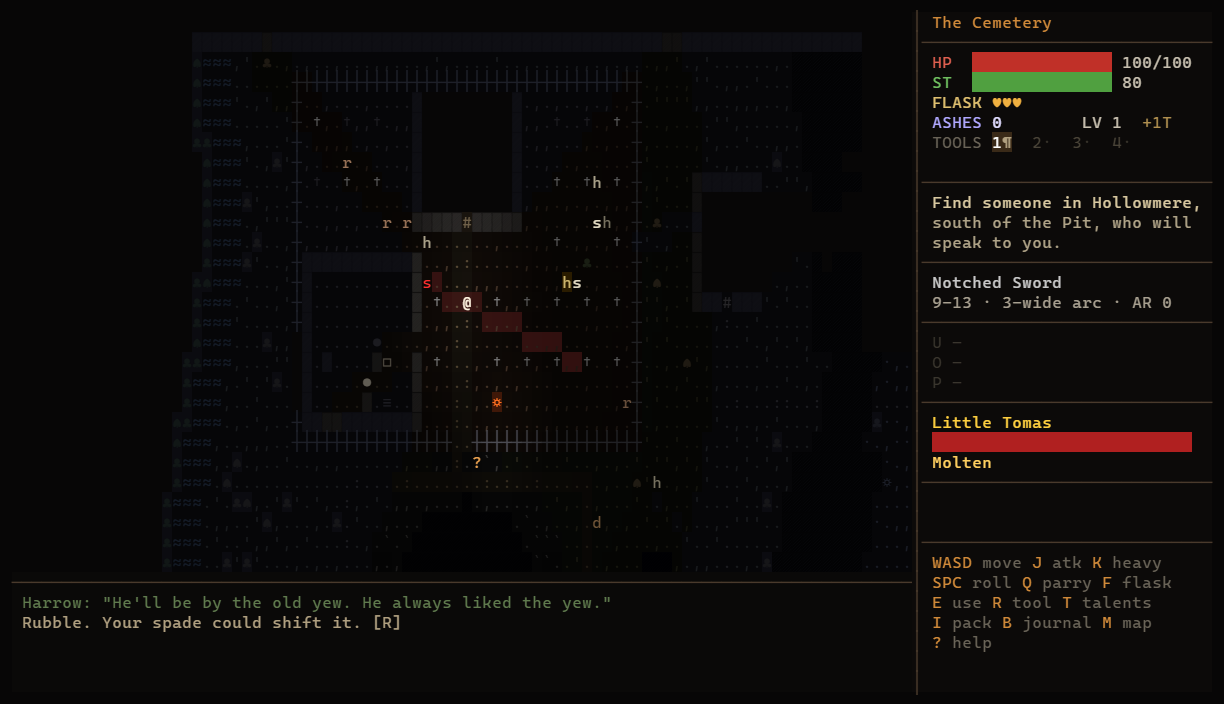
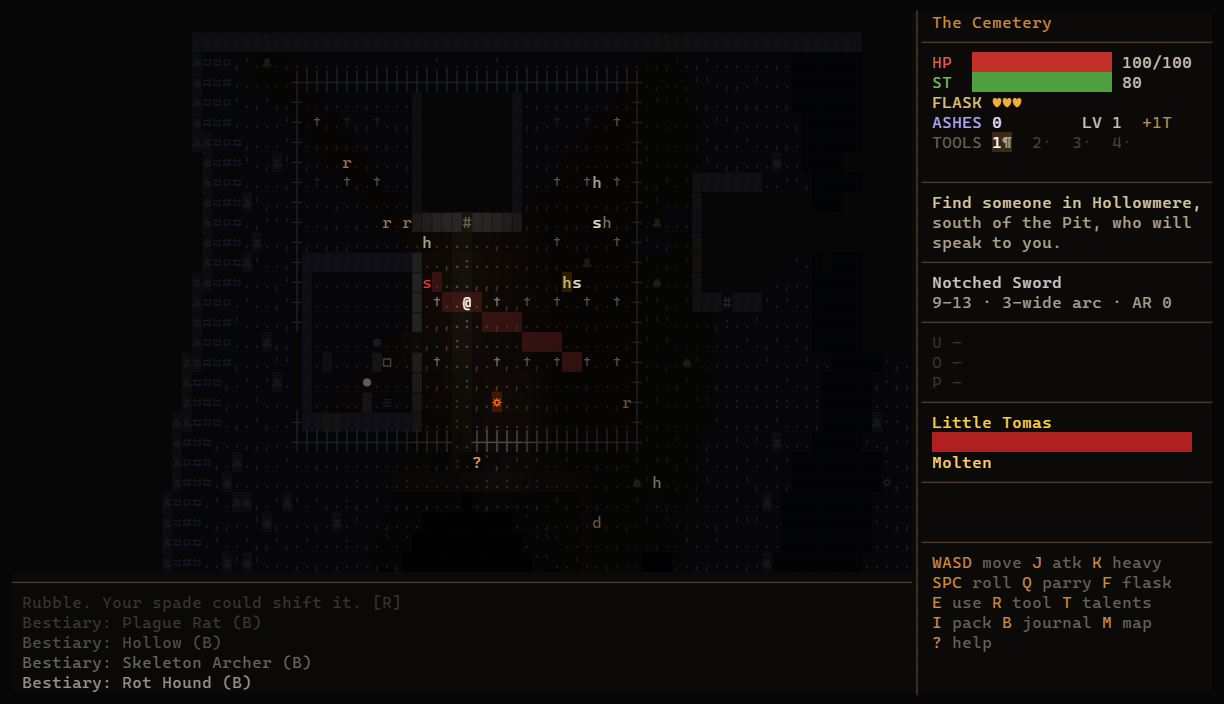
Add a bestiary to the journal
Creatures are recorded the first time you see them. Each entry has the
creature's description, its moves (what it telegraphs and how to answer
it), and your kill count; bosses list their phase-two attacks and
whether they still live. Unmet creatures stay hidden.

Changed region(s): [[0.0, 0.8438, 0.4967, 1.0]]

diff --git a/src/game.ts b/src/game.ts
@@ -10,7 +10,7 @@ import {
 } from './types.ts';
 import { generateDungeon } from './dungeon.ts';
 import { buildWorld, regionAt, START } from './world.ts';
-import { ENEMIES, BOSSES, ELITE_MODS, THEMES, eliteName, DEATH_LINES, URN_LINES } from './data.ts';
+import { ENEMIES, BOSSES, ELITE_MODS, THEMES, MOVES, eliteName, DEATH_LINES, URN_LINES } from './data.ts';
 import {
   makeItem, makeUnique, rollLoot, rollRarity, computeStats, weaponBase, scaleBonus, salvageValue, setUidFloor,
   RARITY_COLORS, RARITY_NAMES, INV_MAX, UNIQUES, type Stats, type Drop,
@@ -904,6 +904,7 @@ export class Game {
       return out;
     }
     if (this.journalTab === 1) return this.lore.map((id) => ({ title: LORE[id].title, text: LORE[id].text, color: 0xe0c8a0 }));
+    if (this.journalTab === 2) return this.bestiary();
     const tools = this.player.tools.map((t) => ({ title: TOOL_INFO[t].name, text: `${TOOL_INFO[t].found}  ${TOOL_INFO[t].desc}`, color: TOOL_INFO[t].color }));
     const items = Object.entries(this.questItems).filter(([, n]) => n > 0).map(([id, n]) => ({ title: `${QUEST_ITEMS[id]}${n > 1 ? ` x${n}` : ''}`, text: 'Someone in Hollowmere wants this.', color: 0xffe0a0 }));
     return [...tools, ...items];
@@ -911,8 +912,8 @@ export class Game {
 
   journalInput(key: string): void {
     if (key === 'esc' || key === 'journal') { this.mode = 'play'; return; }
-    if (key === 'left') { this.journalTab = (this.journalTab + 2) % 3; this.journalSel = 0; this.sfx('menu'); }
-    else if (key === 'right') { this.journalTab = (this.journalTab + 1) % 3; this.journalSel = 0; this.sfx('menu'); }
+    if (key === 'left') { this.journalTab = (this.journalTab + 3) % 4; this.journalSel = 0; this.sfx('menu'); }
+    else if (key === 'right') { this.journalTab = (this.journalTab + 1) % 4; this.journalSel = 0; this.sfx('menu'); }
     const n = this.journalEntries().length;
     if (!n) return;
     if (key === 'up') this.journalSel = (this.journalSel + n - 1) % n;
@@ -1020,6 +1021,7 @@ export class Game {
     for (const fx of this.fx) fx.t--;
     this.fx = this.fx.filter((f) => f.t > 0);
     this.updateFov();
+    this.noticeCreatures();
     if (this.pendingEnding && !this.banner) {
       this.mode = 'ending';
       this.endingStep = 0;
@@ -1911,6 +1913,8 @@ export class Game {
     if (st.uniques.has('cleaver') && d.hollow && !e.boss) ashes = Math.round(ashes * 1.5);
     p.ashes += ashes;
     this.kills++;
+    const kid = `kill:${e.boss ?? e.def}`;
+    this.counters[kid] = (this.counters[kid] ?? 0) + 1;
     const f = this.floor;
     const i = this.idx(e.x, e.y);
     if (f.tiles[i] === T.FLOOR || f.tiles[i] === T.OPEN) f.decal[i] = e.def === 'archer' || e.def === 'sentinel' ? 3 : 2;
@@ -2558,6 +2562,32 @@ export class Game {
         this.addFx(e.x, e.y - 1, '^', 0xff8030, 3);
       }
     }
+  }
+
+  /** First sight of a creature writes it into the bestiary. */
+  noticeCreatures(): void {
+    if (this.tick % 5) return;
+    for (const e of this.enemies) {
+      if (e.dead || e.ally) continue;
+      const id = e.boss ?? e.def;
+      if (this.flags.has(`seen:${id}`) || this.vis[this.idx(e.x, e.y)] <= 0) continue;
+      this.setFlag(`seen:${id}`);
+      this.log(`Bestiary: ${e.boss ? BOSSES[id].name : ENEMIES[id].name} (B)`, 0x9a9488);
+    }
+  }
+
+  bestiary(): { title: string; text: string; color: number }[] {
+    const out: { title: string; text: string; color: number }[] = [];
+    const add = (id: string, name: string, desc: string, color: number, boss: boolean) => {
+      if (!this.flags.has(`seen:${id}`)) return;
+      const kills = this.counters[`kill:${id}`] ?? 0;
+      const moves = (MOVES[id] ?? []).map((m) => `• ${m}`).join('  ');
+      const tail = boss ? (this.bossDead(id) ? 'Destroyed.' : 'Still waiting for you.') : `Killed: ${kills}.`;
+      out.push({ title: `${boss ? '† ' : ''}${name}`, text: `${desc}  ${moves}  ${tail}`, color });
+    };
+    for (const d of Object.values(ENEMIES)) add(d.id, d.name, d.desc, d.color, false);
+    for (const b of Object.values(BOSSES)) add(b.id, b.name, `${b.title}. ${b.intro}`, b.color, true);
+    return out;
   }
 
   // ================================================================ UI helpers

diff --git a/src/data.ts b/src/data.ts
@@ -297,3 +297,77 @@ export const URN_LINES = [
   'The urn breaks. Someone was kept in there.',
   'Shards and a dried finger. Charming.',
 ];
+
+// --------------------------------------------------------------------- bestiary: how each thing fights
+export const MOVES: Record<string, string[]> = {
+  hollow: [
+    'Claw: a short wind-up, then a strike on the tile you stand on. Step off it, roll, or parry.',
+    'Slow and easily distracted. A favorite for backstabs.',
+  ],
+  rat: ['Bite: quick, weak, poisonous. Always in packs of three or four.', 'A wide swing clears the whole pack.'],
+  ghoul: [
+    'Lunge: when you are in a straight line within three tiles, it marks the line and dashes through it.',
+    'Step off the line, not backward along it. It is open while it recovers.',
+  ],
+  archer: [
+    'Aimed shot: a dim line shows where the arrow will fly. Move off the line before it looses.',
+    'Backs away when you close in; kicks if cornered. Break line of sight or rush it.',
+  ],
+  cultist: [
+    'Pyre: calls fire onto the 3x3 around you, leaving burning ground behind.',
+    'Blinks away when you get close. Rush it between casts.',
+  ],
+  bloated: [
+    'Burst: when adjacent it swells, then explodes in a 3x3 of acid that hurts its own kind too.',
+    'Also bursts when it dies. Kill it from range, or lure it into a crowd.',
+  ],
+  knight: [
+    'Shield: blocks most damage from the front. Heavy attacks, backstabs and ripostes get through.',
+    'Sweep: a three-tile arc. Parry it, or circle around to its back.',
+  ],
+  wraith: [
+    'Passes through walls. Grabs at the tile you stand on.',
+    'The Silent Bell staggers it.',
+  ],
+  maggot: ['Bite: weak and poisonous, in swarms of three to five.', 'The Mother births more of them.'],
+  flagellant: [
+    'Flurry: up to three swings, each following you. Back off after the first, or parry the last.',
+    'Long recovery after the third swing.',
+  ],
+  sentinel: [
+    'Slam: crushes all eight tiles around it. Cannot be parried; step two tiles away.',
+    'Heavy poise. A long recovery after every slam is your window.',
+  ],
+  hound: ['Bite: fast, in packs of two or three. They run you down; turn and fight.'],
+  choirling: [
+    'Note: sings a slow projectile from range. Sidestep it.',
+    'The Silent Bell staggers it.',
+  ],
+  // ------------------------------------------------------------------- bosses
+  warden: [
+    'Cleave: a cone in front of it, three tiles deep.',
+    'Slam: a ring two to three tiles out. Stand right against it, or well clear.',
+    'Charge: marks a three-wide lane and barrels down it. Step out of the lane.',
+    'Phase two, Chains: tiles scattered around you are marked. Find an unmarked one.',
+    'Cannot be parried. Heavy blows break its poise.',
+  ],
+  mother: [
+    'Spew: a cone of acid that leaves poisoned ground.',
+    'Birth: maggots wriggle out of her. Kill them before they swarm you.',
+    'Crush: a ring two to three tiles out.',
+    'Phase two, Rain: acid falls on scattered tiles around you.',
+  ],
+  choir: [
+    'Hymn: concentric rings of song. Stand in the quiet gaps between them.',
+    'Volley: a fan of notes. Sidestep or roll through.',
+    'Summon: two choirlings join the hymn.',
+    'Phase two: the hymn comes in two offset waves. Find the silence, then find it again.',
+    'Phase two, Requiem: every other stone of the floor sings. Stand on a quiet one.',
+  ],
+  king: [
+    'Sweep: a wide cone in front of him.',
+    'Blink: he vanishes and reappears beside you, then slams a ring around himself.',
+    'Soulfire: bolts in eight directions (sixteen in phase two). Stand between them.',
+    'Phase two, Cross: the whole row and column you stand on.',
+  ],
+};

diff --git a/src/render.ts b/src/render.ts
@@ -776,7 +776,7 @@ function drawJournal(g: Game, s: Screen): void {
   const w = Math.min(s.w - 4, 104), h = s.h - 2;
   const x = (s.w - w) >> 1, y = 1;
   box(s, x, y, w, h, 'JOURNAL', 0x8a7a5a);
-  const tabs = ['QUESTS', 'WHAT YOU HAVE LEARNED', 'TOOLS & KEEPSAKES'];
+  const tabs = ['QUESTS', 'WHAT YOU HAVE LEARNED', 'BESTIARY', 'TOOLS & KEEPSAKES'];
   let tx = x + 3;
   tabs.forEach((t, i) => {
     const sel = i === g.journalTab;
@@ -785,7 +785,8 @@ function drawJournal(g: Game, s: Screen): void {
   const entries = g.journalEntries();
   const listW = 38;
   for (let j = y + 3; j < y + h - 1; j++) s.put(x + listW + 1, j, '│', BORDER);
-  if (!entries.length) s.text(x + 3, y + 4, g.journalTab === 1 ? 'Nothing yet. The dead keep their secrets close.' : 'Nothing.', DIM);
+  if (!entries.length) s.text(x + 3, y + 4, g.journalTab === 1 ? 'Nothing yet. The dead keep their secrets close.' : g.journalTab === 2 ? 'You have not met anything yet. You will.' : 'Nothing.', DIM);
+  if (g.journalTab === 2) s.text(x + w - 22, y + 1, `${entries.length} of 17 known`, DIM);
   entries.forEach((en, k) => {
     if (k > h - 7) return;
     const sel = k === g.journalSel;
@@ -797,7 +798,11 @@ function drawJournal(g: Game, s: Screen): void {
     const dw = w - listW - 6;
     s.text(x + listW + 3, dy++, sel.title.slice(0, dw), sel.color);
     dy++;
-    for (const ln of wrap(sel.text, dw)) if (dy < y + h - 2) s.text(x + listW + 3, dy++, ln, 0xd8d0c0);
+    for (const para of sel.text.split('  ')) {
+      const move = para.startsWith('•');
+      for (const ln of wrap(para, dw)) if (dy < y + h - 2) s.text(x + listW + 3, dy++, ln, move ? 0xc8b890 : para.startsWith('Killed') || para.startsWith('Destroyed') || para.startsWith('Still') ? DIM : 0xd8d0c0);
+      if (g.journalTab === 2 && dy < y + h - 2) dy++;
+    }
   }
   s.text(x + 2, y + h - 2, '[←→] section  [↑↓] select  [B/Esc] close', ACCENT);
 }

diff --git a/test/mechanics.ts b/test/mechanics.ts
@@ -519,6 +519,27 @@ function grabStory(): void {
   ok(d.player.talents.length === 0 && d.player.talentPoints === pts + spent, 'forgetting at a bonfire returns every point, for ashes');
 }
 
+// ---------------------------------------------------------------- the bestiary
+{
+  const h = fresh(31);
+  ok(h.bestiary().length === 0, 'the bestiary starts empty');
+  const e = duel(h, 'ghoul');
+  h.updateFov();
+  tick(h, 6);
+  const entry = h.bestiary().find((b) => b.title === 'Ghoul');
+  ok(!!entry && entry.text.includes('Lunge') && entry.text.includes('Killed: 0'), 'seeing a ghoul writes it into the bestiary, moves and all');
+  ok(!h.bestiary().some((b) => b.title === 'Crypt Knight'), 'creatures you have not met stay hidden');
+  h.hurtEnemy(e, 9999, 0, { fromPlayer: true });
+  ok(h.bestiary().find((b) => b.title === 'Ghoul')!.text.includes('Killed: 1'), 'kills are counted');
+  h.enterLocation('d0f1');
+  const boss = h.enemies.find((x) => x.boss)!;
+  h.player.x = boss.x;
+  h.player.y = boss.y + 3;
+  h.updateFov();
+  h.setFlag('seen:warden');
+  ok(h.bestiary().some((b) => b.title.includes('The Flayed Warden') && b.text.includes('Charge')), 'bosses get entries with their phase-two moves');
+}
+
 // ---------------------------------------------------------------- render every screen once
 {
   const h = fresh(8);

diff --git a/tools/screenshots.ts b/tools/screenshots.ts
@@ -253,3 +253,14 @@ function explore(g: Game, steps: number, every = 3): void {
   g.talentRow = 5;
   snap(g, '8-talents');
 }
+
+// ------------------------------------------------------------------ 9. bestiary
+{
+  const g = game(13);
+  for (const id of ['hollow', 'rat', 'ghoul', 'archer', 'bloated', 'knight', 'cultist', 'warden']) g.setFlag(`seen:${id}`);
+  Object.assign(g.counters, { 'kill:hollow': 41, 'kill:rat': 77, 'kill:ghoul': 12, 'kill:archer': 9, 'kill:bloated': 6, 'kill:knight': 3, 'kill:cultist': 4 });
+  g.mode = 'journal';
+  g.journalTab = 2;
+  g.journalSel = 5;
+  snap(g, '9-bestiary');
+}
